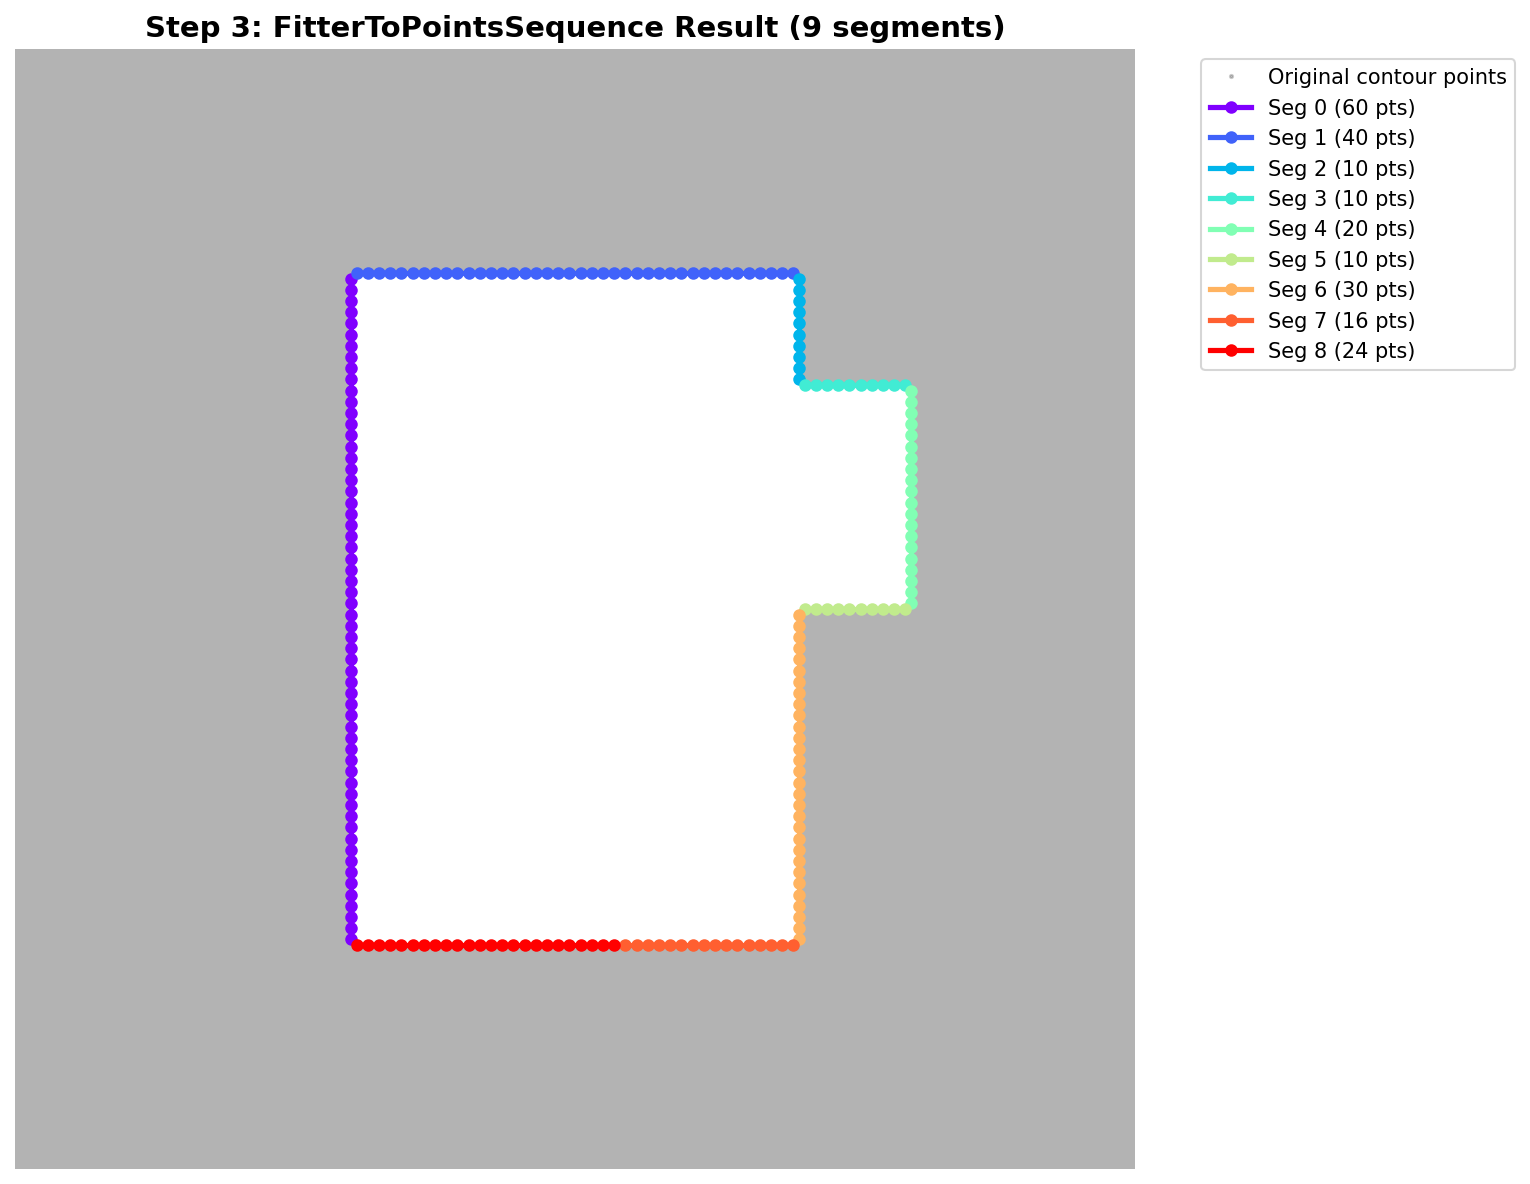
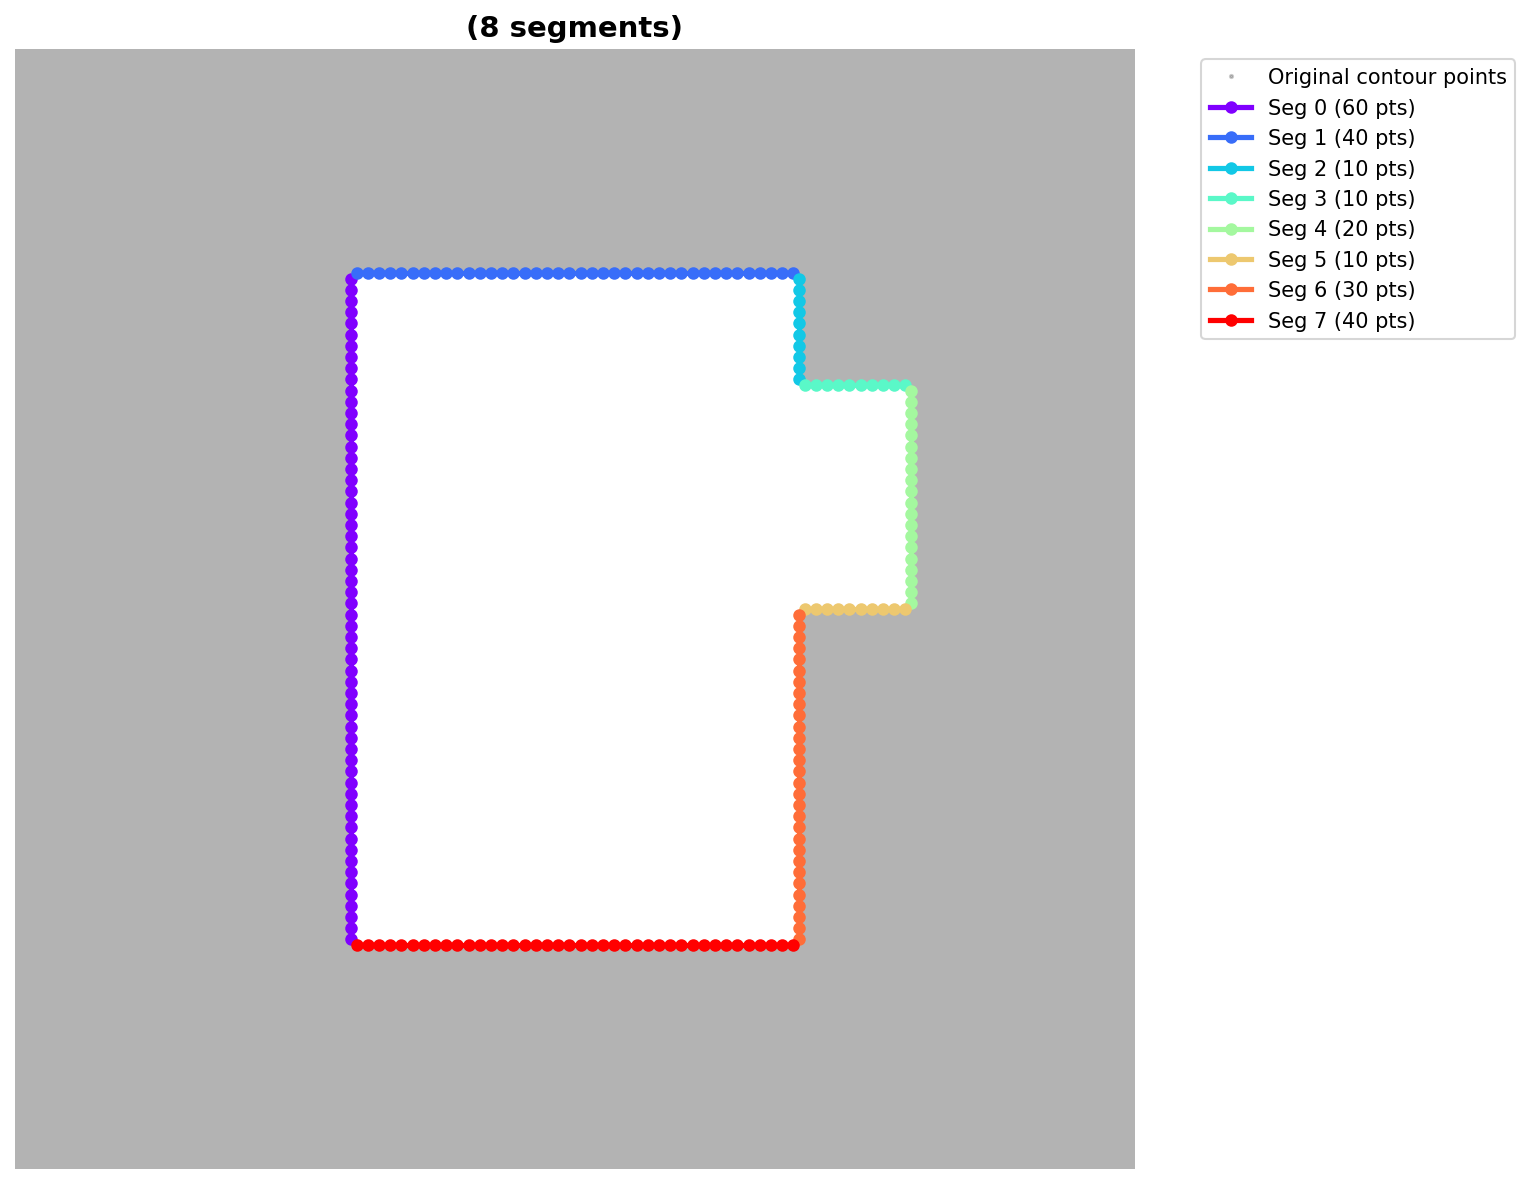
Add collinear segment merging and straightness metric. The simple_bitmap_example recalculated

Changed region(s): [[0.3993, 0.3125, 0.6144, 0.8125], [0.0922, 0.0, 0.6451, 0.0312], [0.768, 0.1562, 0.9523, 0.3125]]

diff --git a/src/fit_to_points_sequence.py b/src/fit_to_points_sequence.py
@@ -29,6 +29,10 @@ class FitterToPointsSequence:
         self.config = config or FitterConfig()
 
     def fit(self) -> list[SequenceSegment]:
+        segments_sequence = self._fit()
+        return self._merge_collinear_segments(segments_sequence)
+
+    def _fit(self) -> list[SequenceSegment]:
         segment_params: LineSegmentParams = fit_line_segment(self.whole_sequence)
         initial_segment = SequenceSegment(
             whole_sequence=self.whole_sequence,
@@ -73,6 +77,33 @@ class FitterToPointsSequence:
 
             segments = segmentation_after_split
             variance = new_variance
+
+    def _merge_collinear_segments(self, segments: list[SequenceSegment]) -> list[SequenceSegment]:
+        changed = True
+        while changed:
+            changed = False
+            n = len(segments)
+            first_segment_indices = range(n) if self.is_closed else range(n-1)
+            for i in first_segment_indices:
+                a = segments[i]
+                b = segments[(i + 1) % n]
+                combined = subsequence(self.whole_sequence, a.first_index, b.last_index)
+                combined_fit = fit_line_segment(combined)
+                if combined_fit.loss / combined.shape[0] <= self.config.tolerance:
+                    merged = SequenceSegment(
+                        whole_sequence=self.whole_sequence,
+                        first_index=a.first_index,
+                        last_index=b.last_index,
+                        line_segment_params=combined_fit)
+                    if self.is_closed and i == n - 1:
+                        segments = [merged] + segments[1:-1]
+                    else:
+                        segments = segments[:i] + [merged] + segments[i+2:]
+                    if self.config.verbose:
+                        print(f"Merged segments {i} and {(i+1) % n}")
+                    changed = True
+                    break
+        return segments
 
     def choose_segment_index_for_split(self, segments: list[SequenceSegment]) -> int | None:
         point_counts = [ segments[i].points_count() for i in range(len(segments)) ]

diff --git a/src/fit_line_segment.py b/src/fit_line_segment.py
@@ -31,9 +31,11 @@ def fit_line_segment(points: np.ndarray) -> LineSegmentParams:
 
     # Error = SSE = N * min eigenvalue
     N = points.shape[0]
-    error = N * np.min(eigvals)
+    min_eigval, max_eigval = np.min(eigvals), np.max(eigvals)
+    error = N * min_eigval
+    straightness = float(min_eigval / max_eigval) if max_eigval > 0 else 0.0
 
-    return LineSegmentParams(p1, p2, direction, error)
+    return LineSegmentParams(p1, p2, direction, error, straightness)
 
 if __name__ == '__main__':
     from timeit import default_timer as timer

diff --git a/src/line_segment_params.py b/src/line_segment_params.py
@@ -9,6 +9,7 @@ class LineSegmentParams:
     end_point: NDArray[np.float64]
     direction: NDArray[np.float64]  # unit (length 1) direction vector
     loss: float
+    straightness: float = 0.0  # min_eigenvalue / max_eigenvalue: 0 = perfectly straight, 1 = circular
 
     def squared_distances_to_line(self, points: np.ndarray) -> np.ndarray:
         v = points - self.start_point
